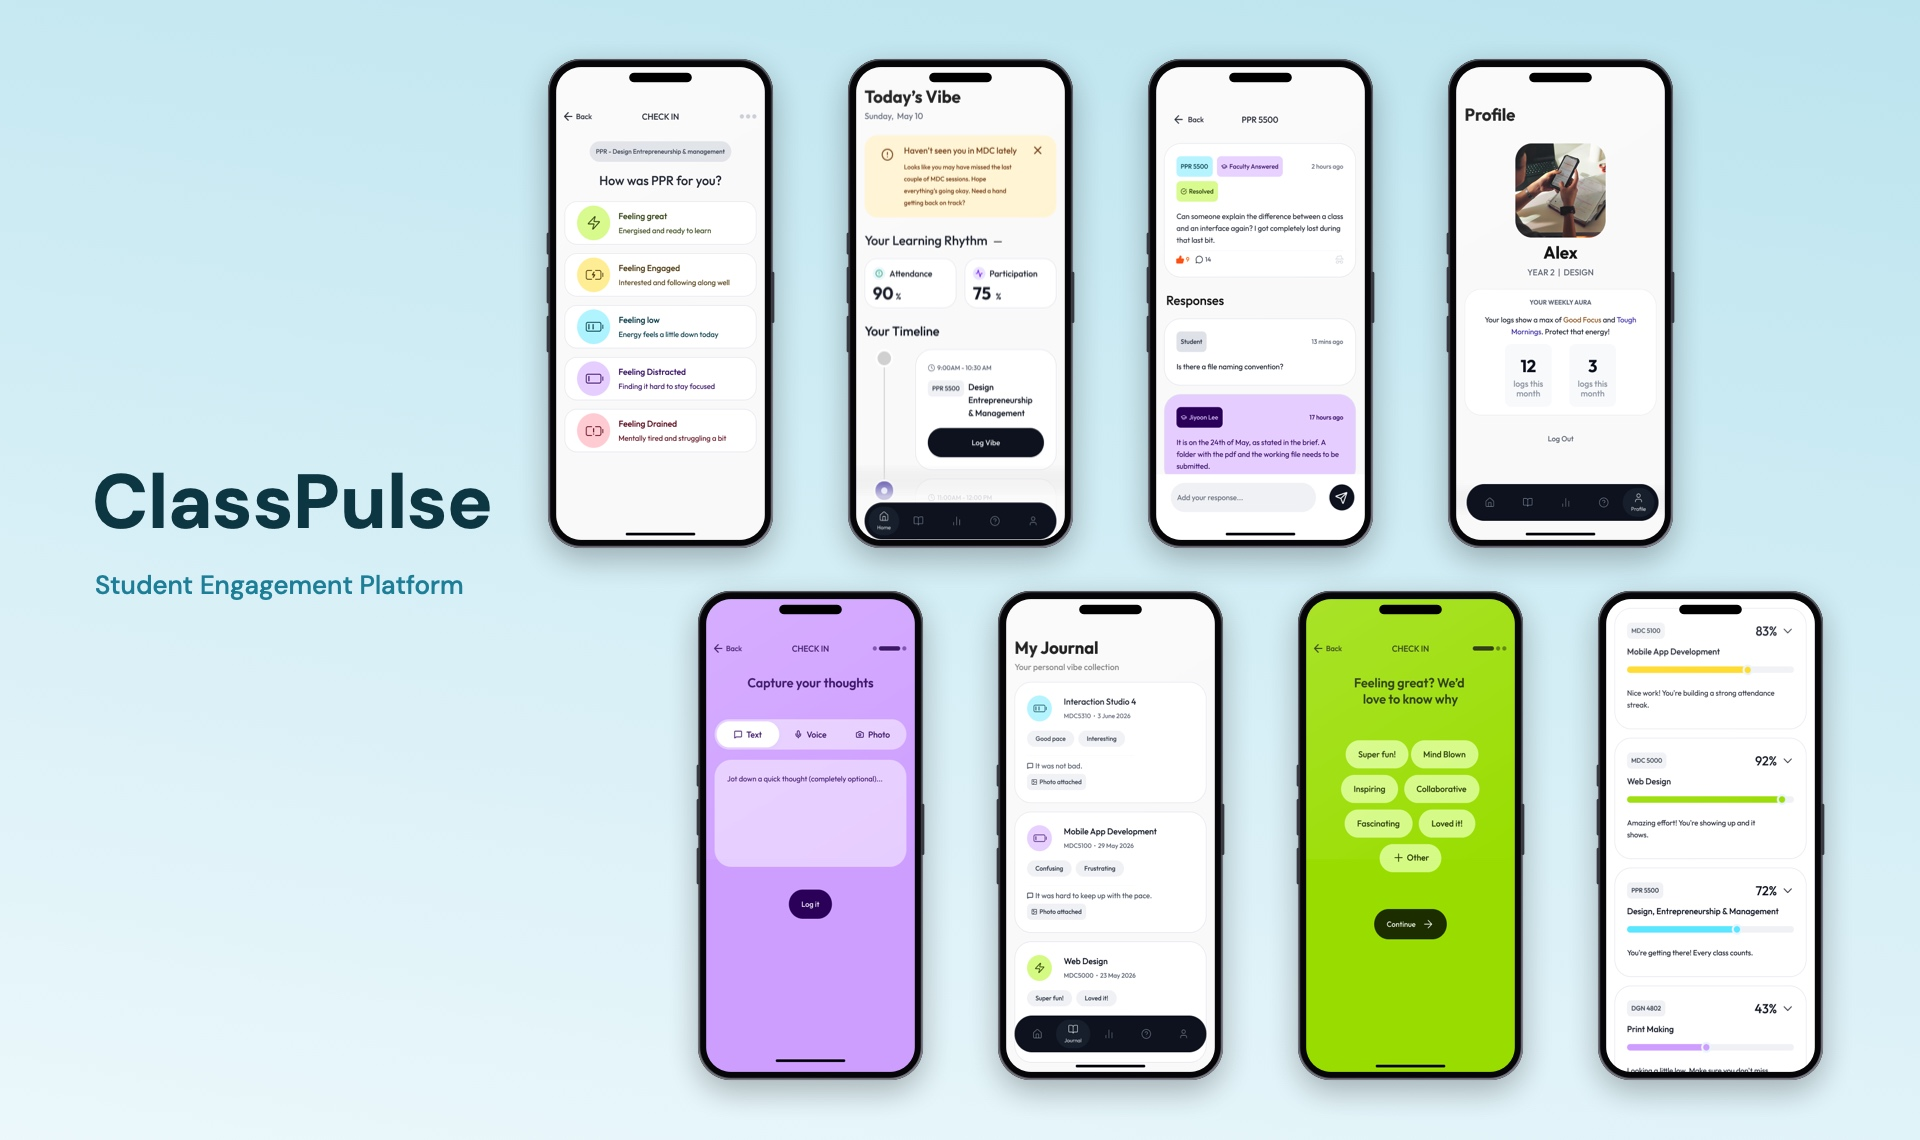
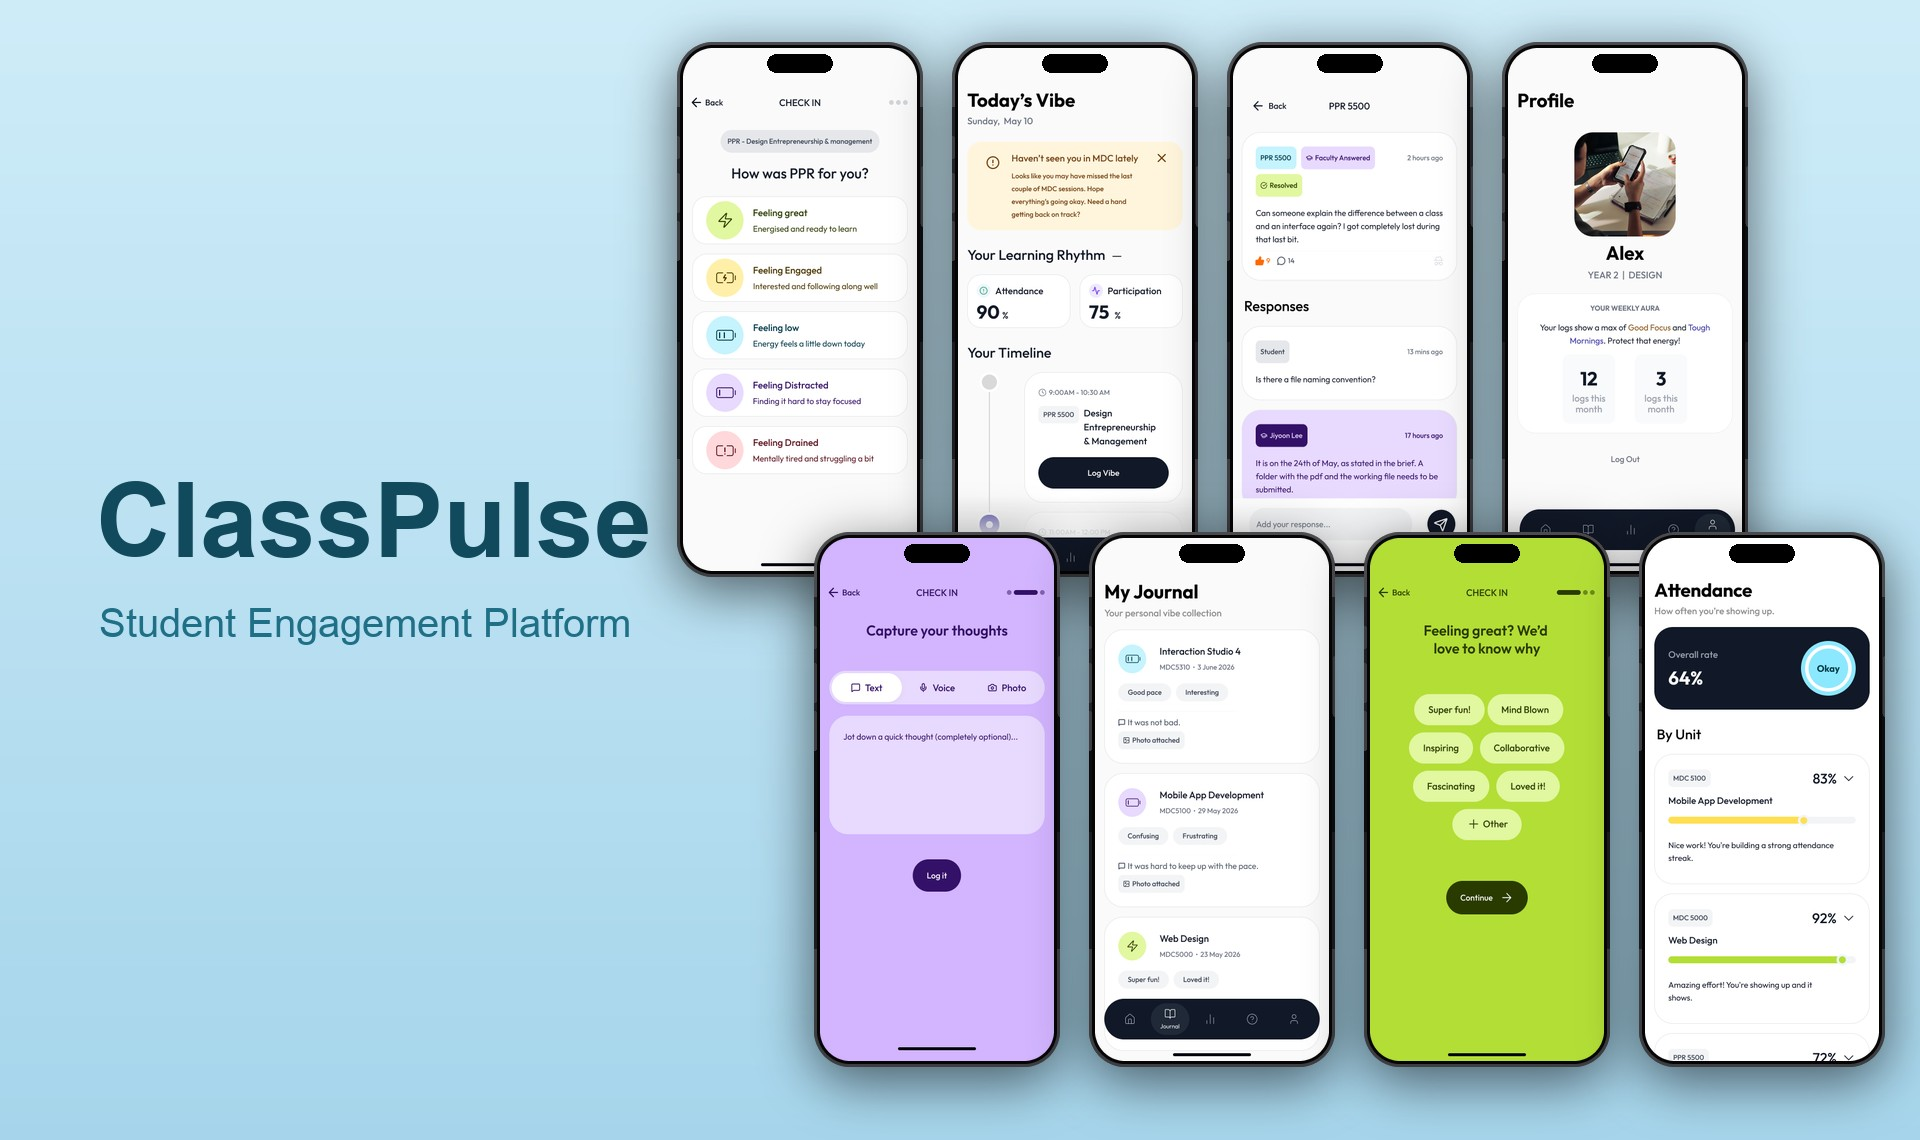
One iPhone frame for every phone in the hero collages
The mockups differed because the two sets of screens differed. The MOHA
captures were exported with a titanium rail, bezel and island already
drawn around them; the ClassPulse ones are bare. Framing both the same way
gave MOHA a phone inside a phone and left ClassPulse's bottom row cut off,
with the last screen showing no bezel at all.

Both collages are now rebuilt from one frame function. Captures that
arrive already framed are stripped back to their display first — the six
MOHA screens come out at 393x851, a 0.462 ratio against the iPhone's own
0.460 — so every phone on the page is drawn identically.

The ClassPulse screens were also three different heights against one
width: 874, 945 and 1583 pixels. Each is scaled to the display's width and
anchored at the top, so a long scrolling capture reads as a screen you
could scroll rather than being squashed. That is what had the designs'
spacing looking wrong.

tools/ holds the scripts and a note on rebuilding after a screen changes.

diff --git a/tools/iphone.py b/tools/iphone.py
@@ -1,0 +1,102 @@
+"""One iPhone frame, drawn the same way every time.
+
+The hero collages were built by hand and the frames drifted: some screens were
+taller than the frame and were cut off at the bottom, and one had no bezel at
+all. Every phone here comes from this one function, so they cannot disagree.
+
+The proportions are an iPhone 15/16 Pro: a 1206x2622 display (0.460), a
+titanium rail, an even black bezel, rounded corners and the Dynamic Island.
+"""
+from PIL import Image, ImageDraw, ImageFilter
+
+SCREEN_RATIO = 1206 / 2622          # the display's own aspect
+
+
+def _rounded_mask(size, radius, ss=4):
+    """A crisp rounded rectangle, drawn large and resampled down."""
+    w, h = size
+    m = Image.new("L", (w * ss, h * ss), 0)
+    ImageDraw.Draw(m).rounded_rectangle(
+        [0, 0, w * ss - 1, h * ss - 1], radius=radius * ss, fill=255
+    )
+    return m.resize((w, h), Image.LANCZOS)
+
+
+def fit_screen(img, target_w, target_h):
+    """Fill the display area, anchored at the top.
+
+    Screens were captured at different heights — 874, 945 and 1583 pixels tall
+    against the same 402 width. Scaling each to the display's width and taking
+    the top is what keeps a design's own spacing intact; the alternative,
+    squeezing it to fit, distorts the layout it is meant to show.
+    """
+    img = img.convert("RGB")
+    w, h = img.size
+    scale = target_w / w
+    new_h = max(target_h, int(round(h * scale)))
+    img = img.resize((target_w, new_h), Image.LANCZOS)
+    return img.crop((0, 0, target_w, target_h))
+
+
+def render_screen(screen_img, width, island=True):
+    """An iPhone at `width` pixels across, wrapped round an already-bare screen."""
+    body_w = int(width)
+    body_h = int(round(body_w / SCREEN_RATIO))
+
+    rail = max(3, round(body_w * 0.0115))      # titanium edge
+    bezel = max(3, round(body_w * 0.0125))     # black surround
+    r_body = round(body_w * 0.148)
+    r_screen = max(1, r_body - rail - bezel)
+
+    card = Image.new("RGBA", (body_w, body_h), (0, 0, 0, 0))
+
+    # titanium rail, brightest at the top-left and bottom-right edges
+    rail_img = Image.new("RGB", (body_w, body_h), "#1a1a1e")
+    rd = ImageDraw.Draw(rail_img)
+    for y in range(body_h):
+        t = y / max(1, body_h - 1)
+        if t < 0.12:      c = (74, 74, 79)
+        elif t < 0.34:    c = (35, 35, 39)
+        elif t < 0.56:    c = (13, 13, 15)
+        elif t < 0.78:    c = (28, 28, 32)
+        else:             c = (61, 61, 66)
+        rd.line([(0, y), (body_w, y)], fill=c)
+    card.paste(rail_img, (0, 0), _rounded_mask((body_w, body_h), r_body))
+
+    # black bezel between rail and glass
+    inner_w, inner_h = body_w - 2 * rail, body_h - 2 * rail
+    bez = Image.new("RGB", (inner_w, inner_h), "#050506")
+    card.paste(bez, (rail, rail), _rounded_mask((inner_w, inner_h), r_body - rail))
+
+    # the display
+    sx, sy = rail + bezel, rail + bezel
+    sw, sh = body_w - 2 * sx, body_h - 2 * sy
+    shot = fit_screen(screen_img, sw, sh)
+    card.paste(shot, (sx, sy), _rounded_mask((sw, sh), r_screen))
+
+    d = ImageDraw.Draw(card)
+    if island:
+        iw, ih = round(body_w * 0.265), round(body_w * 0.072)
+        ix, iy = (body_w - iw) // 2, sy + round(body_h * 0.011)
+        d.rounded_rectangle([ix, iy, ix + iw, iy + ih], radius=ih // 2, fill=(0, 0, 0, 255))
+
+    # side buttons, sitting just proud of the rail
+    btn = (60, 60, 65, 255)
+    bw = max(2, round(body_w * 0.008))
+    for top, height in ((0.175, 0.042), (0.245, 0.072), (0.335, 0.072)):
+        y0 = round(body_h * top)
+        d.rounded_rectangle([-bw, y0, bw, y0 + round(body_h * height)], radius=bw, fill=btn)
+    y0 = round(body_h * 0.232)
+    d.rounded_rectangle([body_w - bw, y0, body_w + bw, y0 + round(body_h * 0.112)],
+                        radius=bw, fill=btn)
+    return card
+
+
+def drop_shadow(card, blur=26, dy=14, opacity=150):
+    """A soft shadow cast by the phone's own silhouette."""
+    pad = blur * 3
+    w, h = card.size
+    sh = Image.new("RGBA", (w + pad * 2, h + pad * 2), (0, 0, 0, 0))
+    silhouette = Image.new("RGBA", (w, h), (0, 0, 0, opacity))
+    sh.paste(silhouette, (pad, pad + dy), card)
+    return sh.filter(ImageFilter.GaussianBlur(blur)), pad

diff --git a/tools/heroes.py b/tools/heroes.py
@@ -1,0 +1,82 @@
+"""Rebuild the ClassPulse and MOHA hero collages.
+
+Every phone comes from one frame function, and every screen is reduced to its
+display first — the MOHA captures arrived with a phone already drawn around
+them, which is what made the two projects look like they used different
+mockups.
+"""
+import sys, os
+sys.path.insert(0, os.path.dirname(os.path.abspath(__file__)))
+from PIL import Image, ImageDraw, ImageFont
+from iphone import render_screen, drop_shadow
+from unframe import screen_of
+
+ROOT = "/Users/nidhijoseph/Desktop/portfolio folders"
+W, H = 1920, 1140
+
+FONT_DIRS = ["/System/Library/Fonts/Supplemental", "/System/Library/Fonts", "/Library/Fonts"]
+
+
+def font(name, size):
+    for d in FONT_DIRS:
+        p = os.path.join(d, name)
+        if os.path.exists(p):
+            return ImageFont.truetype(p, size)
+    return ImageFont.load_default()
+
+
+def wash(size, top, bottom):
+    w, h = size
+    g = Image.new("RGB", (1, h))
+    d = ImageDraw.Draw(g)
+    for y in range(h):
+        t = y / max(1, h - 1)
+        d.point((0, y), fill=tuple(round(top[i] + (bottom[i] - top[i]) * t) for i in range(3)))
+    return g.resize((w, h), Image.BICUBIC)
+
+
+def place(canvas, rel_path, width, cx, cy):
+    card = render_screen(screen_of(os.path.join(ROOT, rel_path)), width)
+    sh, pad = drop_shadow(card)
+    canvas.alpha_composite(sh, (round(cx - card.width / 2) - pad, round(cy - card.height / 2) - pad))
+    canvas.alpha_composite(card, (round(cx - card.width / 2), round(cy - card.height / 2)))
+    return card.size
+
+
+def classpulse():
+    bg = wash((W, H), (206, 236, 248), (166, 213, 235)).convert("RGBA")
+    d = ImageDraw.Draw(bg)
+    d.text((96, 462), "ClassPulse", font=font("Arial Bold.ttf", 104), fill=(17, 74, 92))
+    d.text((99, 600), "Student Engagement Platform", font=font("Arial.ttf", 40), fill=(31, 111, 134))
+
+    S = "Class Pulse/ClassPulse screens for hero image"
+    top = ["classpulse-checkinoptions.png", "classpulse-home.png",
+           "classpulse-journalthread.png", "classpulse-profile.png"]
+    bot = ["classpulse-capturethoughts.png", "classpulse-journal.png",
+           "classpulse-checkinenergied.png", "classpulse-attendance.png"]
+
+    pw, gap = 246, 275
+    for i, s in enumerate(top):
+        place(bg, f"{S}/{s}", pw, 800 + i * gap, 310)
+    for i, s in enumerate(bot):
+        place(bg, f"{S}/{s}", pw, 937 + i * gap, 800)
+    return bg
+
+
+def moha():
+    bg = Image.new("RGBA", (W, H), (231, 217, 176, 255))
+    d = ImageDraw.Draw(bg)
+    d.text((110, 424), "MOHA", font=font("Arial Bold.ttf", 118), fill=(122, 90, 30))
+    d.text((113, 566), "Museum Application", font=font("Arial.ttf", 42), fill=(139, 109, 49))
+
+    S = "MOHA/MOHA screens for hero image"
+    for i, s in enumerate(["moha-artist.png", "moha-merch.png", "moha-cart.png"]):
+        place(bg, f"{S}/{s}", 328, 880 + i * 390, 570)
+    return bg
+
+
+for name, img in (("classpulse-hero.jpg", classpulse()), ("moha-hero.jpg", moha())):
+    out = os.path.join(ROOT, "assets", name)
+    Image.alpha_composite(Image.new("RGBA", img.size, (255, 255, 255, 255)), img)\
+         .convert("RGB").save(out, "JPEG", quality=90, optimize=True)
+    print(f"  wrote {name}  {img.size[0]}x{img.size[1]}")

diff --git a/tools/unframe.py b/tools/unframe.py
@@ -1,0 +1,55 @@
+"""Recover the bare screen from a capture that already has a phone drawn round it.
+
+The MOHA screens were exported with their own titanium rail, black bezel and
+island baked in; the ClassPulse ones are bare. Framing both with the site's
+frame gave MOHA a phone inside a phone, which is most of why the mockups looked
+like they came from different places. This strips a capture back to the display
+so every screen can be framed the same way.
+"""
+from PIL import Image
+
+
+def _alpha_box(px, w, h):
+    xs = [x for x in range(w) if any(px[x, y][3] > 8 for y in range(0, h, 5))]
+    ys = [y for y in range(h) if any(px[x, y][3] > 8 for x in range(0, w, 5))]
+    return (xs[0], ys[0], xs[-1], ys[-1]) if xs and ys else (0, 0, w - 1, h - 1)
+
+
+def _dark(c):
+    return c[3] > 200 and (c[0] + c[1] + c[2]) < 190
+
+
+def screen_of(path, bezel_min=4):
+    """Return the display area as an RGB image, or the whole file if unframed.
+
+    A framed capture reads, from the edge inwards: transparency, a light rail, a
+    black bezel, then the screen. Finding a run of dark pixels of at least
+    `bezel_min` and taking what follows is what separates the two cases — a bare
+    screenshot has no such run and is returned untouched.
+    """
+    im = Image.open(path).convert("RGBA")
+    w, h = im.size
+    px = im.load()
+    x0, y0, x1, y1 = _alpha_box(px, w, h)
+    cy, cx = (y0 + y1) // 2, (x0 + x1) // 2
+
+    def walk(start, end, step, fixed, horizontal):
+        run = 0
+        for i in range(start, end, step):
+            c = px[i, fixed] if horizontal else px[fixed, i]
+            if _dark(c):
+                run += 1
+            elif run >= bezel_min and c[3] > 200:
+                return i          # first pixel of the screen
+            elif c[3] > 200:
+                run = 0
+        return None
+
+    left   = walk(x0, x1, 1,  cy, True)
+    right  = walk(x1, x0, -1, cy, True)
+    top    = walk(y0, y1, 1,  cx, False)
+    bottom = walk(y1, y0, -1, cx, False)
+
+    if None in (left, right, top, bottom) or right - left < w * 0.4:
+        return im.convert("RGB")   # nothing framed here — use it as it is
+    return im.crop((left, top, right + 1, bottom + 1)).convert("RGB")

diff --git a/tools/README.md b/tools/README.md
@@ -1,0 +1,18 @@
+# Hero mockups
+
+`heroes.py` rebuilds the ClassPulse and MOHA hero collages in `assets/`.
+
+Every phone in both is drawn by the single frame in `iphone.py`, so they cannot
+drift apart. `unframe.py` strips a capture back to its display first — the MOHA
+screens were exported with a phone already drawn around them, which is why those
+two projects used to look like they came from different mockup kits.
+
+To rebuild after replacing a screen:
+
+    python3 -m venv venv && ./venv/bin/pip install Pillow
+    ./venv/bin/python tools/heroes.py
+
+Screens live in `Class Pulse/ClassPulse screens for hero image/` and
+`MOHA/MOHA screens for hero image/`. They may be any height — each is scaled to
+the display's width and anchored at the top, so a long scrolling capture reads
+as a screen you could scroll rather than being squashed to fit.
